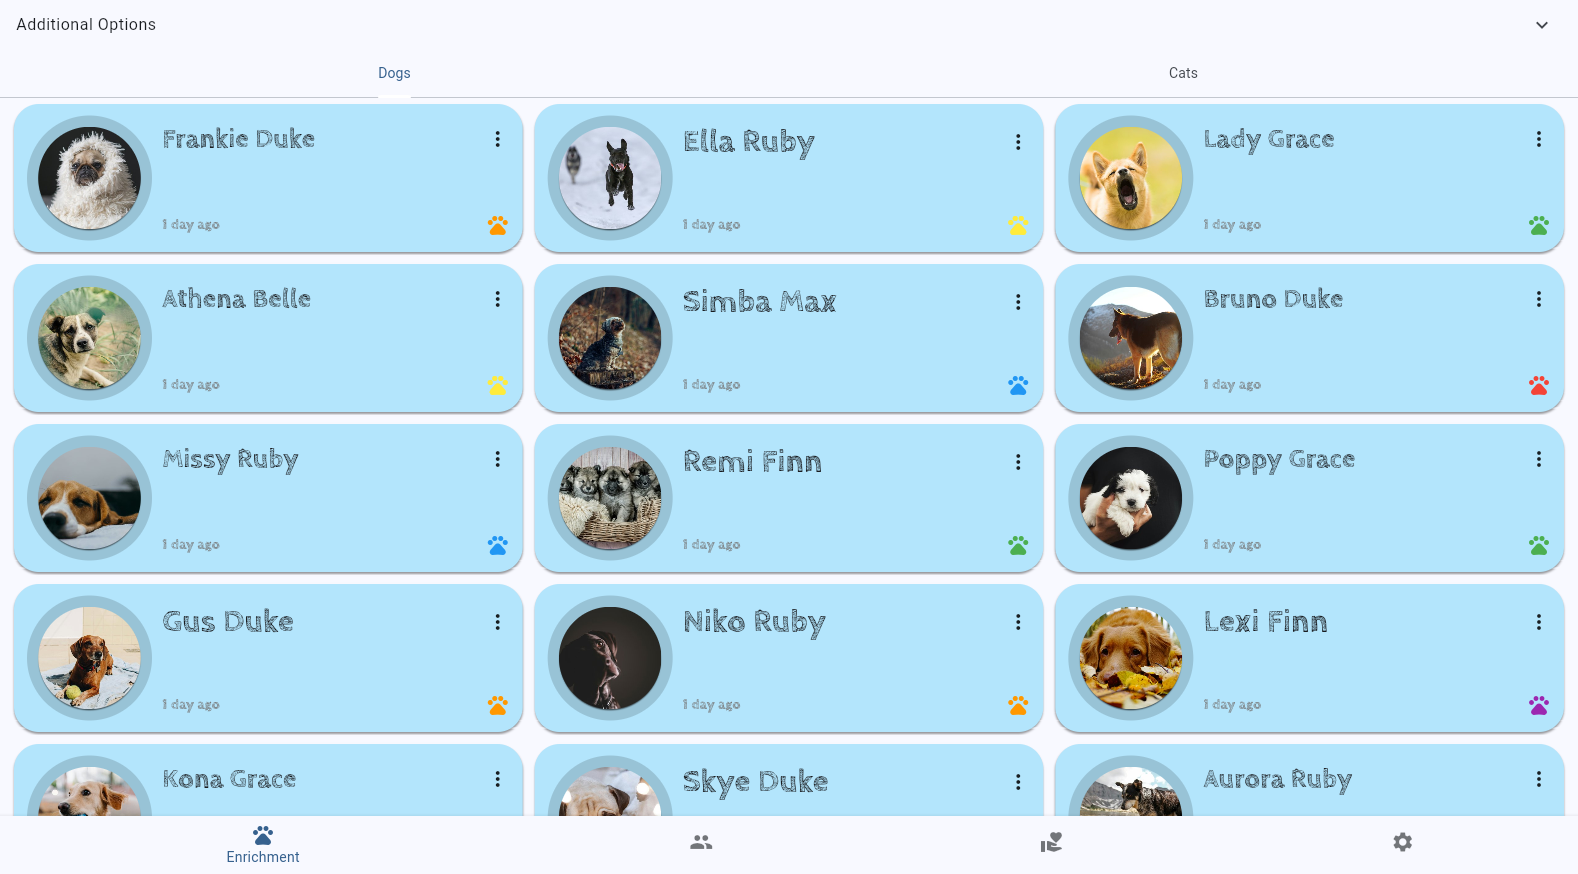
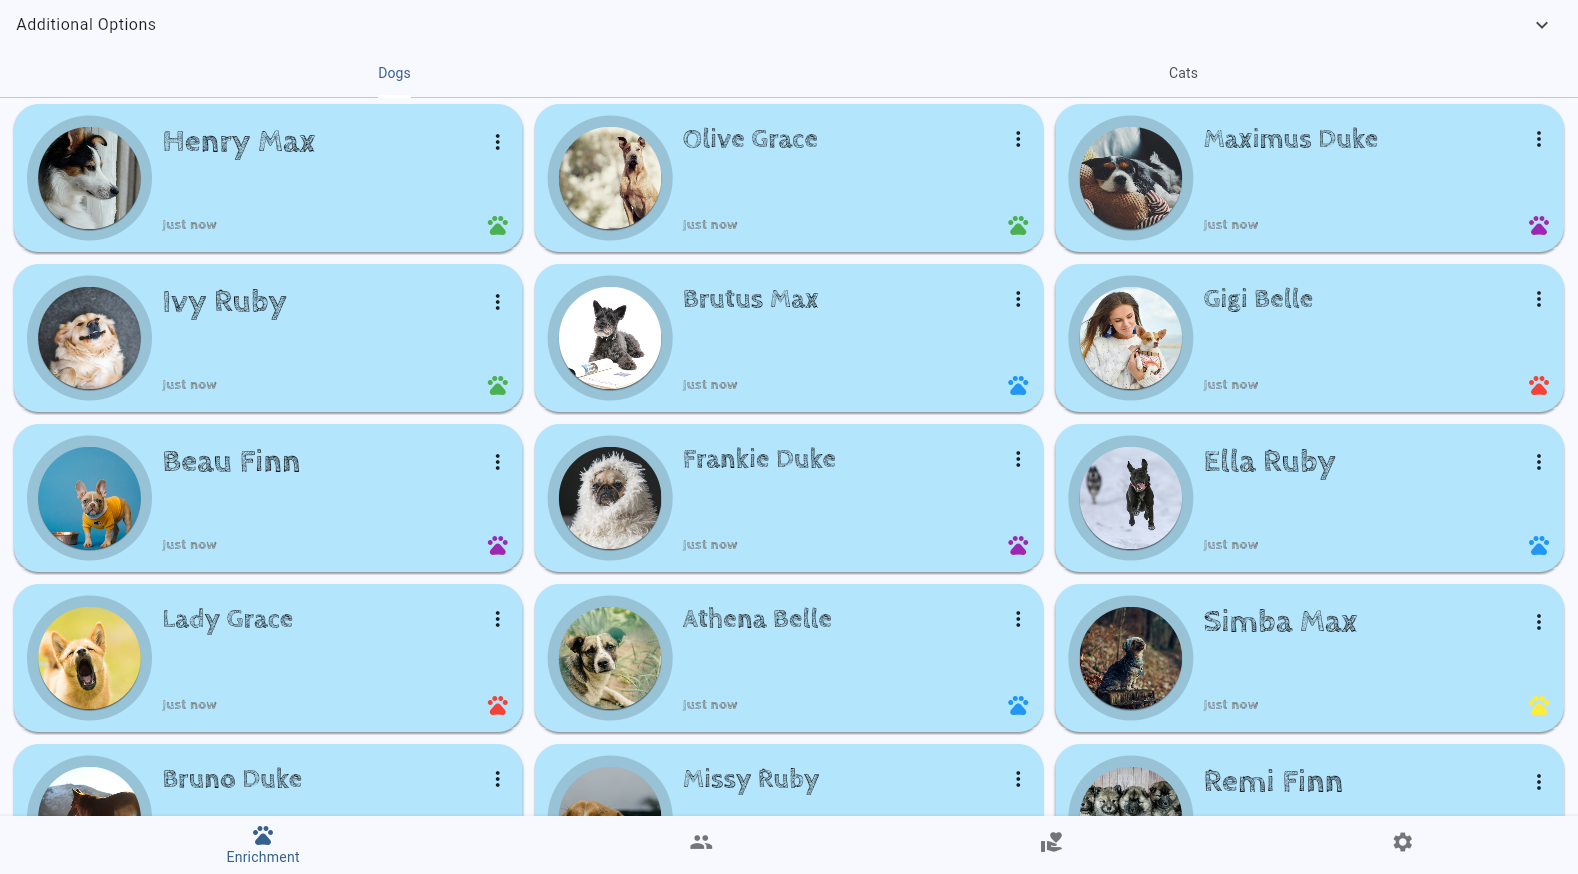
WIP not sure of the status

diff --git a/Flutter/shelter_partner/integration_test/dog_workflow_test.dart b/Flutter/shelter_partner/integration_test/dog_workflow_test.dart
@@ -1,22 +1,29 @@
-import 'dart:developer';
-
 import 'package:flutter/material.dart';
 import 'package:flutter_test/flutter_test.dart';
 import 'package:integration_test/integration_test.dart';
 import 'package:shelter_partner/main.dart' as app;
 import 'package:shelter_partner/services/console_logger_service.dart';
-import 'package:shelter_partner/services/logger_service.dart';
 import 'package:shelter_partner/views/components/animal_card_image.dart';
 import 'package:shelter_partner/views/components/take_out_confirmation_view.dart';
+import 'package:uuid/uuid.dart';
 
 void main() {
   final binding = IntegrationTestWidgetsFlutterBinding.ensureInitialized();
   final logger = ConsoleLoggerService();
 
   group('Dog Workflow Integration Test', () {
-    testWidgets('Login and test long press on animal image', (
+    testWidgets('Create new account and test long press on animal image', (
       WidgetTester tester,
     ) async {
+      // Generate unique email with timestamp and short UUID
+      const uuid = Uuid();
+      final timestamp = DateTime.now().millisecondsSinceEpoch;
+      final shortUuid = uuid.v4().substring(0, 8);
+      final testEmail = 'integration_test_${timestamp}_$shortUuid@example.com';
+      const testPassword = 'testpassword';
+
+      logger.info('TEST: Creating account with email: $testEmail');
+
       // Start the app
       app.main();
       await tester.pumpAndSettle();
@@ -24,19 +31,45 @@ void main() {
       // Wait for the login page to load
       await tester.pumpAndSettle(const Duration(seconds: 2));
 
-      // Enter test credentials
+      // Navigate to signup page
+      await tester.tap(find.text('Create Shelter'));
+      await tester.pumpAndSettle();
+      logger.info('TEST: Navigated to signup page');
+
+      // Fill in signup form
+      final textFields = find.byType(TextField);
+
+      // First name field (first text field)
+      await tester.enterText(textFields.at(0), 'Integration');
+
+      // Last name field (second text field)
+      await tester.enterText(textFields.at(1), 'Test');
+
+      // Email field (third text field)
+      await tester.enterText(textFields.at(2), testEmail);
+
+      // Password field (fourth text field)
+      await tester.enterText(textFields.at(3), testPassword);
+
+      // Confirm password field (fifth text field)
+      await tester.enterText(textFields.at(4), testPassword);
+
+      // Shelter name field (sixth text field)
+      await tester.enterText(textFields.at(5), 'Test Shelter');
+
+      // Shelter address field (seventh text field)
       await tester.enterText(
-        find.byType(TextField).first,
-        'integration_test@example.com',
+        textFields.at(6),
+        '123 Test Street, Test City, TS 12345',
       );
-      await tester.enterText(find.byType(TextField).last, 'testpassword');
+
       await tester.pumpAndSettle();
 
-      // Tap the login button
-      await tester.tap(find.text('Log In'));
-      logger.info('TEST: Tapped Log In button');
+      // Tap the Create Shelter button
+      await tester.tap(find.text('Create Shelter'));
+      logger.info('TEST: Tapped Create Shelter button');
 
-      // Wait for login to process and iterate until the AnimalCardImages are found
+      // Wait for signup to process and iterate until the AnimalCardImages are found
       bool animalCardImagesFound = false;
       int attempts = 0;
       const maxAttempts = 10;
@@ -62,7 +95,6 @@ void main() {
         );
       }
 
-      // TODO take screenshot
       logger.info(
         'TEST: AnimalCardImages found, proceeding with long press test',
       );
@@ -86,7 +118,7 @@ void main() {
       // Take screenshot after action and verify TakeOutConfirmationView appears
       await binding.convertFlutterSurfaceToImage();
       await tester.pumpAndSettle();
-      final afterImage = await binding.takeScreenshot('after_long_press');
+      await binding.takeScreenshot('after_long_press');
 
       // Verify the confirmation dialog appeared
       expect(find.byType(TakeOutConfirmationView), findsOneWidget);
@@ -107,9 +139,7 @@ void main() {
 
       // Take final screenshot
       await tester.pumpAndSettle();
-      final finalImage = await binding.takeScreenshot(
-        'after_second_long_press',
-      );
+      await binding.takeScreenshot('after_second_long_press');
 
       // TODO click button to add note
 
